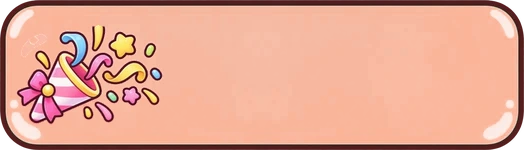
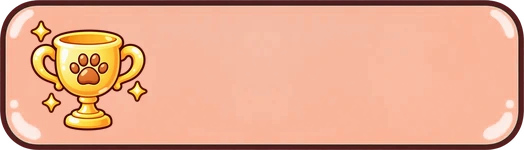
v0.9.01 싱글플레이 카드 아이콘을 트로피로(Codex)

Changed region(s): [[0.0305, 0.1333, 0.3359, 0.88]]

diff --git a/index.html b/index.html
@@ -1413,7 +1413,7 @@
   const elTitle = document.getElementById("overTitle");
   const coinNote = document.getElementById("coinNote");
 
-  const GAME_VERSION = "v0.9.00";
+  const GAME_VERSION = "v0.9.01";
   /* 제작사 스플래시(bamhobak friends 로고) — 2026-09-20 끔. 다시 켜려면 true */
   const SPLASH_USE = false;   // 코드를 고칠 때마다 뒤 두 자리를 올린다
   document.getElementById("ver").textContent = GAME_VERSION;

diff --git a/README.md b/README.md
@@ -5,7 +5,7 @@
 👉 **플레이: https://bamhobak.github.io/ddongpi/**
 
 > 이 문서는 `index.html` 의 실제 값을 옮겨 적은 것입니다. 숫자를 고쳤으면 여기도 같이 고쳐 주세요.
-> 마지막으로 맞춰 본 판: **v0.9.00**
+> 마지막으로 맞춰 본 판: **v0.9.01**
 
 ## ⚔ 대전모드 (v0.8.24 한 폰 · v0.8.25 두 폰)
 시작하기를 누르면 **[방 만들기] · [방 참가](방 번호 4자리) · [한 폰으로 둘이서]** 를 고릅니다.
